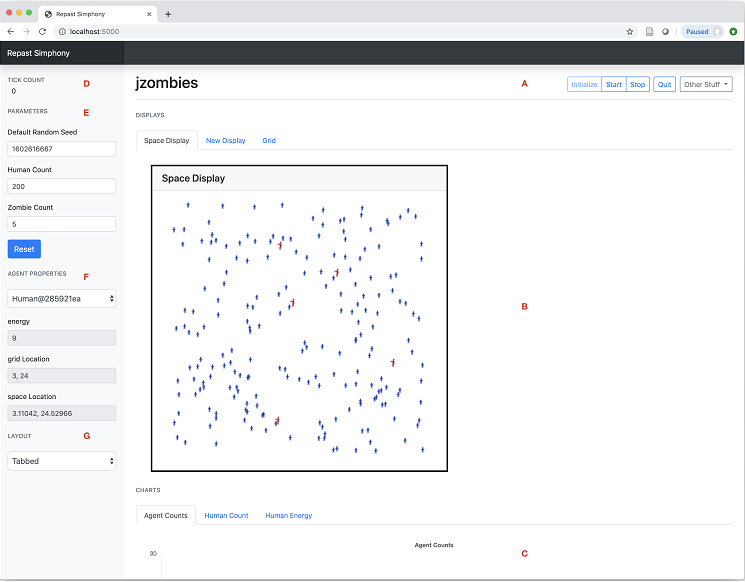
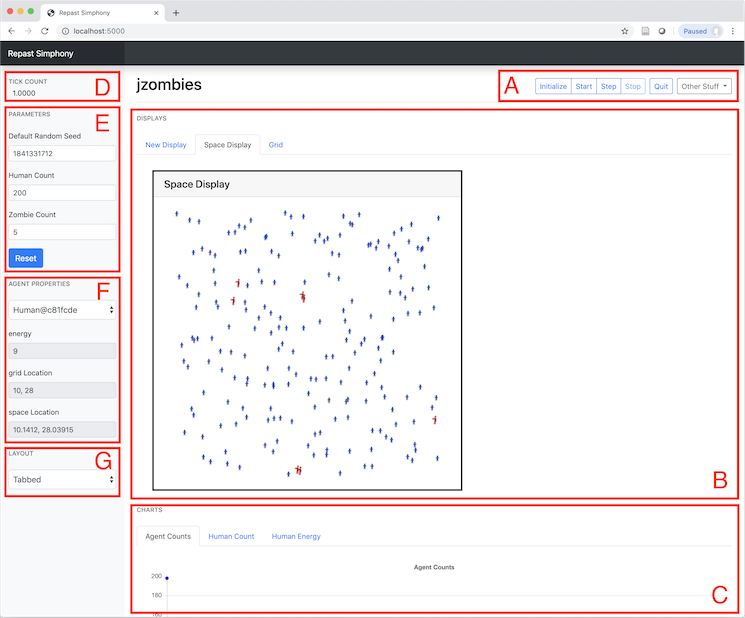
New gui image.

diff --git a/docs/RepastNG/browser.html b/docs/RepastNG/browser.html
@@ -834,8 +834,8 @@ plots should appear.
 </li>
 <li>
 <p>
-Use the <code>Start</code> and <code>Stop</code> buttons in the top right hand corner to start and stop the model. You can repeatedly
-run the same model, while changing the parameters etc., by restarting the model with <code>Initialize</code> or <code>Start</code>
+Use the <code>Start</code>, <code>Step</code> and <code>Stop</code> buttons in the top right hand corner to start, step, and stop the model. You can repeatedly
+run the same model, while changing the parameters etc., by restarting the model with <code>Initialize</code>, <code>Start</code>, or <code>Step</code>
 after the model has stopped.
 </p>
 </li>
@@ -867,7 +867,7 @@ Click <code>Quit</code> to stop the server and quit the model.
 <div class="olist upperalpha"><ol class="upperalpha">
 <li>
 <p>
-Toolbar. The <code>Initialize</code>, <code>Start</code>, and <code>Stop</code> buttons will initialize, start and stop
+Toolbar. The <code>Initialize</code>, <code>Start</code>, <code>Step</code>, and <code>Stop</code> buttons will initialize, start, step and stop
 the model. <code>Quit</code> will stop the server and kill any running models. The server must be restarted
 in order to run the model. <code>Other Stuff -&gt; Kill Model,</code> will kill the model process,
 and can be used if the GUI becomes unresponsive.
@@ -980,7 +980,7 @@ address.</p></div>
 <div id="footnotes"><hr /></div>
 <div id="footer">
 <div id="footer-text">
-Last updated 2019-09-25 16:24:29 EDT
+Last updated 2019-09-26 09:50:39 EDT
 </div>
 </div>
 </body>
